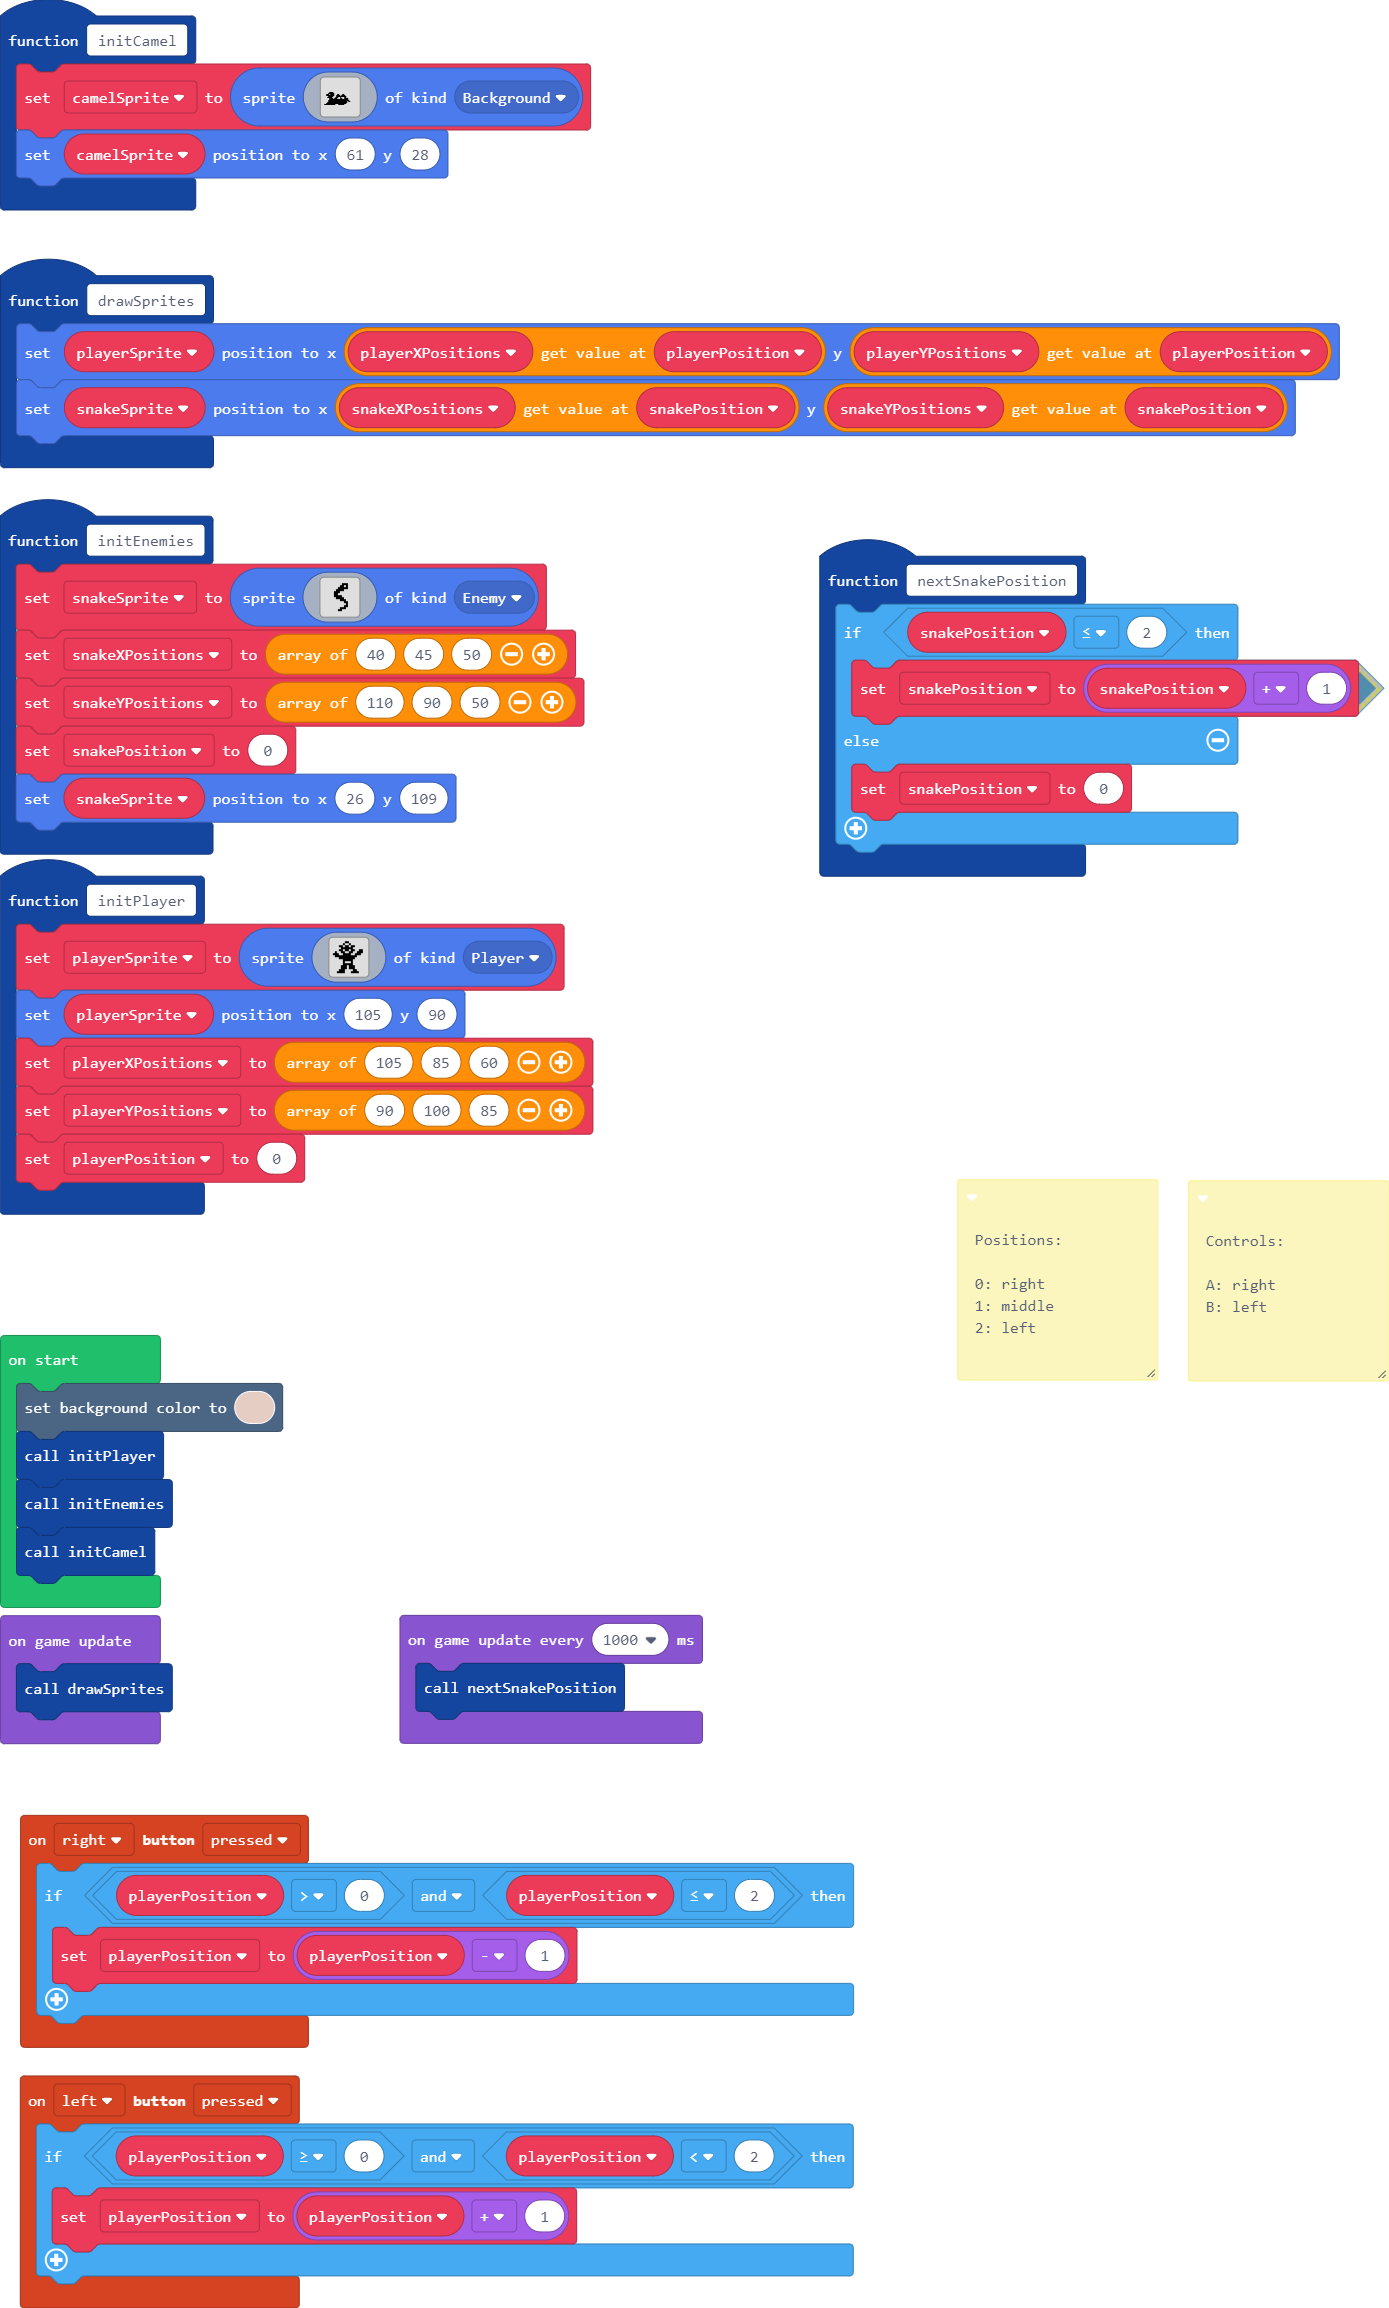
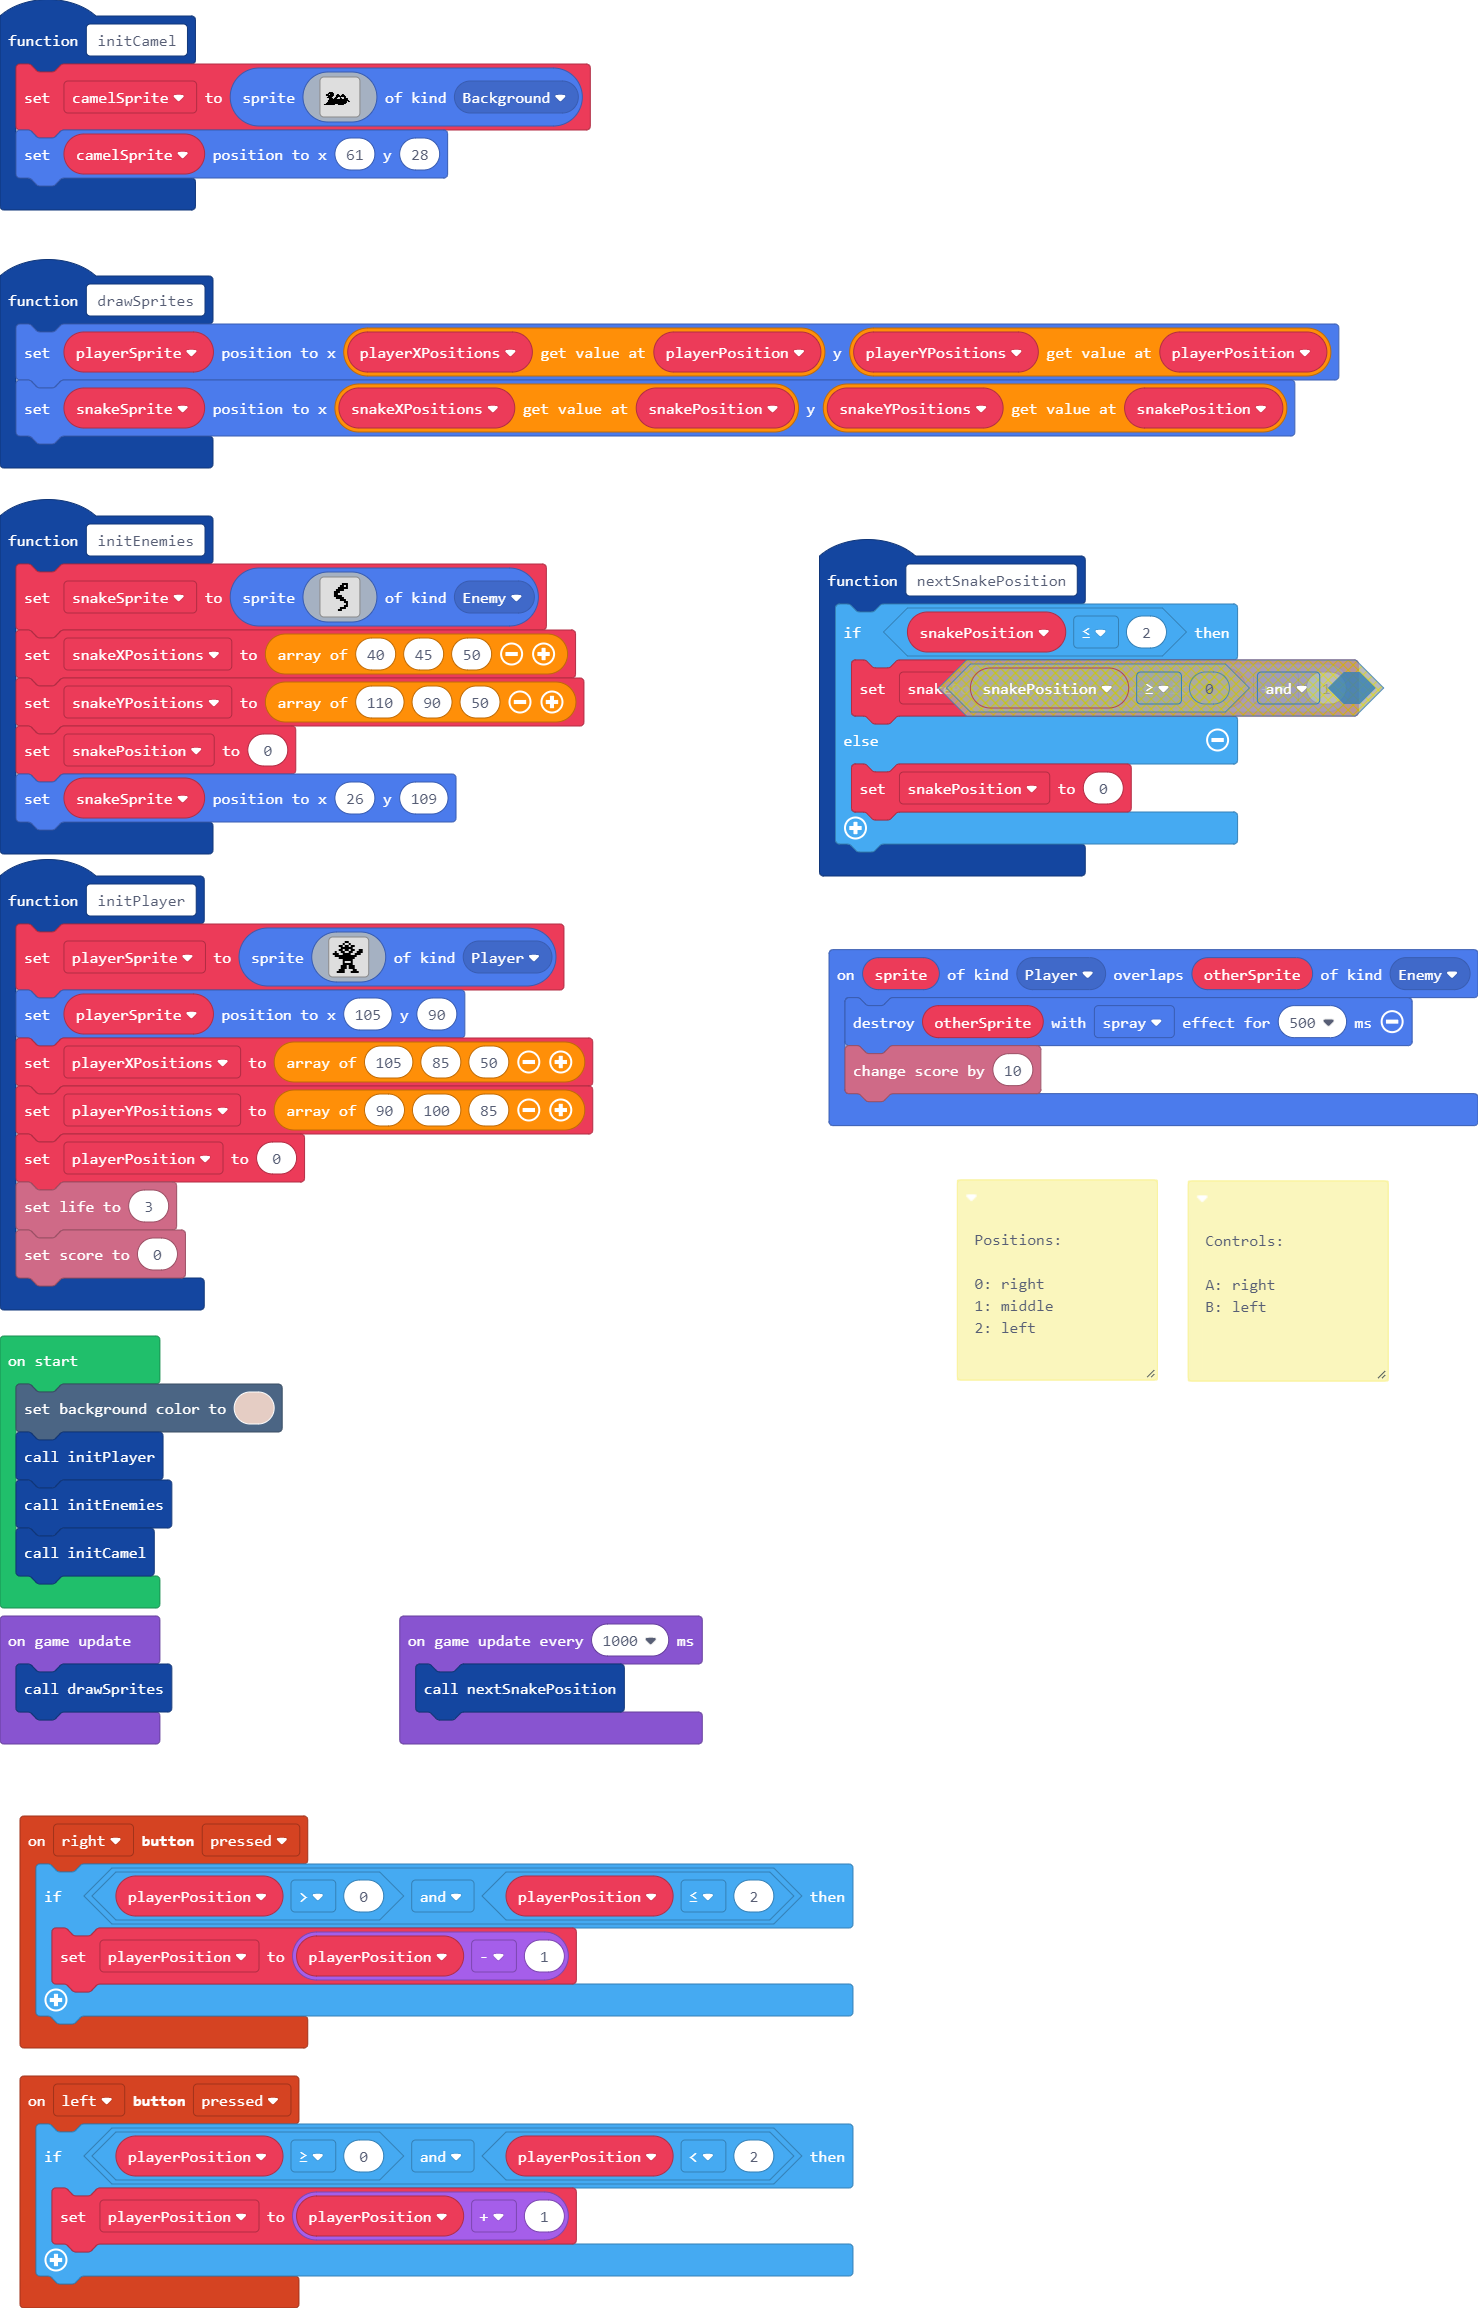
add life, score, and destroy snake

diff --git a/main.ts b/main.ts
@@ -21,27 +21,6 @@ function drawSprites () {
     playerSprite.setPosition(playerXPositions[playerPosition], playerYPositions[playerPosition])
     snakeSprite.setPosition(snakeXPositions[snakePosition], snakeYPositions[snakePosition])
 }
-function initCamel () {
-    camelSprite = sprites.create(img`
-. . . . . . . . . . . . . . . . . . . . . . . . . . . . . . . . 
-. . . . . . . . . . . . . . . . . . . . . . . . . . . . . . . . 
-. . . . . . . . . . . . . . . . . . . . . . . . . . . . . . . . 
-. . . . . f f f f . . . . . . . . . . . . . . . . . . . . . . . 
-. . . . f f f f f f . . . . . . . . . . . . . . . . . . . . . . 
-. . f f f . f f f f . . . f f . . . f f . . . . . . . . . . . . 
-. . f f f f f f f f . . f f f f . f f f f . . . . . . . . . . . 
-. . . . f f f f f . . . f f f f f f f f f f . . . . . . . . . . 
-. . . f f f f f . . . f f f . . f . . . f f . . . . . . . . . . 
-. . . . . f f f f . f f f . . . f f . . f f f f . . . . . . . . 
-. . . . . f f f f f f f f f f f f f f f f f f f . . . . . . . . 
-. . . . f f f f f f f f f f f f f f f f f f f f f . . . . . . . 
-. . . . f f f f f f f f f f f f f f f f f f f . f f . . . . . . 
-. . . f f f f f f f f f f f f f f f f f f f f . . . . . . . . . 
-. . f f f f f f f f f f f f f f f f f f f f . . . . . . . . . . 
-f f f f f f f f f f f . . . f f f f f f . . . . . . . . . . . . 
-`, SpriteKind.Background)
-    camelSprite.setPosition(61, 28)
-}
 function initEnemies () {
     snakeSprite = sprites.create(img`
 . . . . . . . . . . . . . . . . 
@@ -91,10 +70,16 @@ f f f . . f f f f . . f f f . .
 . . f f f f . . . f f f f . . . 
 `, SpriteKind.Player)
     playerSprite.setPosition(105, 90)
-    playerXPositions = [105, 85, 60]
+    playerXPositions = [105, 85, 50]
     playerYPositions = [90, 100, 85]
     playerPosition = 0
+    info.setLife(3)
+    info.setScore(0)
 }
+sprites.onOverlap(SpriteKind.Player, SpriteKind.Enemy, function (sprite, otherSprite) {
+    otherSprite.destroy(effects.spray, 500)
+    info.changeScoreBy(10)
+})
 controller.right.onEvent(ControllerButtonEvent.Pressed, function () {
     if (playerPosition > 0 && playerPosition <= 2) {
         playerPosition = playerPosition - 1
@@ -106,6 +91,27 @@ function nextSnakePosition () {
     } else {
         snakePosition = 0
     }
+}
+function initCamel () {
+    camelSprite = sprites.create(img`
+. . . . . . . . . . . . . . . . . . . . . . . . . . . . . . . . 
+. . . . . . . . . . . . . . . . . . . . . . . . . . . . . . . . 
+. . . . . . . . . . . . . . . . . . . . . . . . . . . . . . . . 
+. . . . . f f f f . . . . . . . . . . . . . . . . . . . . . . . 
+. . . . f f f f f f . . . . . . . . . . . . . . . . . . . . . . 
+. . f f f . f f f f . . . f f . . . f f . . . . . . . . . . . . 
+. . f f f f f f f f . . f f f f . f f f f . . . . . . . . . . . 
+. . . . f f f f f . . . f f f f f f f f f f . . . . . . . . . . 
+. . . f f f f f . . . f f f . . f . . . f f . . . . . . . . . . 
+. . . . . f f f f . f f f . . . f f . . f f f f . . . . . . . . 
+. . . . . f f f f f f f f f f f f f f f f f f f . . . . . . . . 
+. . . . f f f f f f f f f f f f f f f f f f f f f . . . . . . . 
+. . . . f f f f f f f f f f f f f f f f f f f . f f . . . . . . 
+. . . f f f f f f f f f f f f f f f f f f f f . . . . . . . . . 
+. . f f f f f f f f f f f f f f f f f f f f . . . . . . . . . . 
+f f f f f f f f f f f . . . f f f f f f . . . . . . . . . . . . 
+`, SpriteKind.Background)
+    camelSprite.setPosition(61, 28)
 }
 let camelSprite: Sprite = null
 let snakeYPositions: number[] = []
